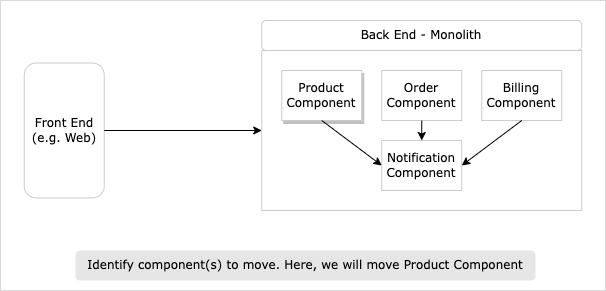
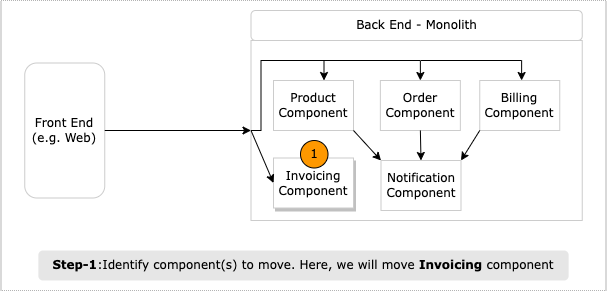
[v2-WIP] - updating strangler fig section.

diff --git a/modernization-patterns/1-strangler-fig-pattern.md b/modernization-patterns/1-strangler-fig-pattern.md
@@ -1,21 +1,50 @@
 # Strangler Fig Pattern
 
-Strangler Fig pattern is commonly used to incrementally replace a whole system (usually legacy) with a completely new one (modernized version).
-It's best suited to modernize component with minimal to no upstream (i.e. incoming) dependencies.
+## Pattern Origins (optional read)
+<details>
+<summary>click to expand</summary>
+First captured by Martin Fowler, who was inspired by a certain type of fig that seeds itself in the upper branches of trees. The existing tree becomes initially a support structure for the new fig. The fig then descends toward the ground to take root, gradually enveloping the original tree, and leaving only the new self-supporting fig in its place.
+</details>
+<br/>
 
-TL;DR:
+## Overview
 
-1. First, identify subset of the monolith components to modernize; ones with minimal to no upstream (i.e. incoming) dependencies.
-1. Second, along side the monolith, perform the modernization: 1/ port or re-write the functionality and 2/ validate the functional behavior.
-1. Third, slowly start to reroute respective traffic, from monolith to the modernized version.
+<details>
+<summary>click to expand</summary>
+
+This pattern is commonly used to incrementally replace a legacy system - component by component - with a modernized version. The idea is that the old and the new will coexist and new system initially be supported by, and wrapping, the existing system. This will give the new system time to grow and potentially entirely replace the old system. 
+
+For the strangler to work well, you need to be able to easily redirect (e.g. API Gateway) the inbound calls - *from outside the system* - for functionality you care about to the asset that you want to move.
+
+For example, Strangler Fig pattern will work well for Product, Order, Billing, and Invoicing components shown in the diagram below. You can redirect outside the system inbound HTTP calls to their modernized version. 
+
+For Notification component, this pattern would not work well. Because notifications are fired as a result of multiple inbound calls to the existing monolith. Therefore, you can’t clearly redirect the calls from outside the system itself. Another pattern called [Branch by Abstraction](./2-branch-by-abstraction.md) would work well (discussed later).
+
+![strangler fig pattern tldr](../diagrams/strangler-fig-pattern-tldr.png)
+
+> The more work you have to do in the proxy layer to understand and potentially redirect the inbound call, the less viable Strangler Fig pattern option may become.
+
+**How It Work (TL;DR)**
+1. Identify component(s) to modernize first.
+1. Parallel to the monolith, modernize component(s); as applicable, port or re-write.
+1. Keep monolith around (for rollback) but redirect existing calls to the modernized version.
+
+</details>
+
+<br/>
 
 ## Pattern Benefits
 
-- Without changing existing system, you can modernize components along side their monolith versions.
-- Without service live traffic, you can deploy the modernized components to production, perform tests in-parallel to the existing system, and validate functional behavior.
-- Finally, release the modernized components: redirect traffic for the components from monolith to the modernized version (e.g. via `HTTP Proxy`).
+<details>
+<summary>click to expand</summary>
 
-> **Deploy vs Release**: Deploy: only push to Production and validate functional behavior. When modernized component is ready to be consumed by the end user, you can release it (goes live).
+- This pattern allows you to move functionality over to your new services architecture without having to touch or make any changes to your existing system.
+
+- Incremental modernization to a new system gives you the ability to pause/stop while still taking advantage of the new system delivered so far.
+
+- Without switching live traffic, you can deploy the modernized components to production, perform tests in-parallel to the existing system, and validate functional behavior.
+
+> **Deployment vs Release**: Important to keep the deployment & release concepts separate. `Deployment`: only push to Production and validate functional behavior. When modernized component is ready to be consumed by the end user, you can `Release` it (goes live).
 
 **Be mindful:**
 
@@ -28,18 +57,25 @@ TL;DR:
 - While modernizing component, try to freeze functional or behavioral changes (e.g. bug fixes or feature additions).
   - Allowing changes may make the rollback - switch from modernized to monolith version - scenario much harder.
 
+</details>
+
+<br/>
+
 ## Pattern Execution Process
+
+<details>
+<summary>click to expand</summary>
 
  Prior to steps below, ensure you've reviewed `Decomposed Monolith to Modular Services / Baseline` section in [index.md](../index.md).
 
-1. Identify modernization candidate component. For the sample application depicted below, we will choose Product component with minimal to no incoming dependencies.
+1. Identify modernization candidate component(s). For the sample application depicted below, we will choose Invoicing component.
 
     ![strangler-fig-identify-component](../diagrams/strangler-fig-identify-component.png)
 
-1. Incorporate `Gateway Proxy` to help control the incoming traffic (e.g. direct between monolith/modernized versions).
+1. Incorporate HTTP Proxy (e.g API Gateway) to help control the incoming traffic (e.g. direct between monolith/modernized versions).
 
     1. If Proxy is new to the ecosystem, then integrate one; as simple pass through.
-    1. This approach will help you with: 1/ assess impact of adding network hop and acceptable latency and 2/ ensure the system continues to operate as before.
+    1. Pass through approach will help you with: 1/ assess impact of adding network hop and acceptable latency and 2/ ensure the system continues to operate as before.
 
     ![strangler-fig-http-proxy](../diagrams/strangler-fig-http-proxy.png)
 
@@ -52,6 +88,8 @@ TL;DR:
     1. Validate against your unit/integration tests.
 
     ![strangler-fig-modernize-component](../diagrams/strangler-fig-modernize-component.png)
+
+    > [Tip] - While porting, ensure any functionality rewrites are small - doable over few days or weeks - and ship this reworked functionality to your customers regularly. If the timelines start to look more like several months, you should reexamine your approach.
 
 1. Deploy modernized component (not release yet!)
 
@@ -68,3 +106,5 @@ TL;DR:
         1. Or run it alongside the monolith to ensure its outputs matches the existing functionality.
   
     ![strangler-fig-switch-traffic](../diagrams/strangler-fig-switch-traffic.png)
+
+</details>
